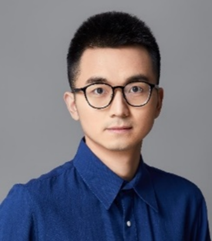
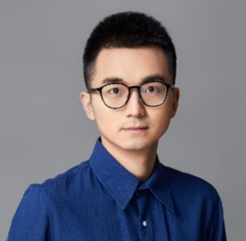
fix figure

diff --git a/index.html b/index.html
@@ -470,7 +470,7 @@
                                 <div class="member aos-init aos-animate" data-aos="fade-up">
                                     <div class="speaker"
                                     >
-                                        <img src="assets/img/committee/hanxu.png" alt="">
+                                        <img src="assets/img/committee/hanxu.jpg" alt="">
                                     </div>
                                     <div class="member-info">
                                         <h4><a
@@ -704,7 +704,7 @@
                             <div class="col-lg-4 col-md-4 d-flex align-items-stretch schedule-card">
                                 <div class="member aos-init aos-animate" data-aos="fade-up">
                                     <div class="speaker">
-                                        <img src="assets/img/committee/shuyiheng.png" alt="">
+                                        <img src="assets/img/committee/shuyiheng.jpg" alt="">
                                     </div>
                                     <div class="member-info">
                                         <h4><a href="https://yihengshu.github.io/" target="_blank">舒意恒</a>
